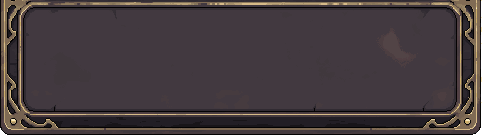
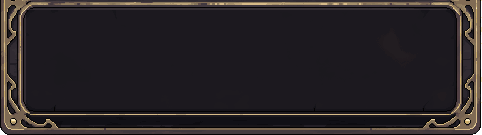
ui: Lesbarkeit der neuen Oberflaeche hinter ?ui=neu (#189, b361)
- Plattenmitte (ui_rahmen.png) ruhig und dunkel: Mauve #423940 mit rosa
  Schlieren auf Anthrazit #1c191f gezogen, Messing und Konturen bleiben.
- uiRahmen.lesbar(): zu dunkle Textfarben (Grau #666..#888, Braungrau)
  Richtung Pergament angehoben, bis sie auf Platte und Knopf >= 4,5:1
  erreichen; Schrift unter 11 px waechst, wenn Platz ist; kleiner Text
  ohne Kontur bekommt einen harten Pixelschatten. Wirkt in Einstellungen,
  Schwarzmarkt, Druckerei, Schmiede (ueber einkleiden) und im Journal.
- Zu enge Knoepfe (Schwarzmarkt "Blindkauf", Einstellungen "Klassisch")
  wachsen samt Trefferflaeche um ihre Beschriftung.
- Gemessener Kontrast (Median-Hintergrund unter dem Text), kleinster Wert
  vorher -> nachher: Einstellungen 2,48 -> 5,01; Journal 1,93 -> 7,56;
  Schmiede 1,93 -> 4,91; Druckerei 3,88 -> 6,86; Schwarzmarkt 3,13 -> 6,26.
- Test: tests/uiRahmen.test.js misst den Kontrast von Toast, Dialog (alle
  vier Knopfzustaende), Einstellungen, Schwarzmarkt und Journal sowie die
  Ruhe der Plattenmitte. Ohne Flagge bleibt alles wie bisher.

diff --git a/js/uiRahmen.js b/js/uiRahmen.js
@@ -45,6 +45,11 @@
     try { return !!(window.DebugGate && window.DebugGate.an('ui')); } catch (e) { return false; }
   }
 
+  // Cache-Buster je Bild: die Platte wurde nachtraeglich abgedunkelt (#189),
+  // sonst zeigt der Browser noch die alte, helle Mitte.
+  var BILD_V = { ui_rahmen: 2 };
+  function _pfad(k) { return 'assets/ui/' + k + '.png' + (BILD_V[k] ? '?v=' + BILD_V[k] : ''); }
+
   function _fehlend(scene) {
     if (!scene || !scene.textures) return ALLE.slice();
     return ALLE.filter(function (k) { return !scene.textures.exists(k); });
@@ -56,7 +61,7 @@
   /** Im preload() einer Szene: die Grafiken mitladen (nur mit Flagge). */
   function vorladen(scene) {
     if (!an() || !scene || !scene.load) return;
-    _fehlend(scene).forEach(function (k) { scene.load.image(k, 'assets/ui/' + k + '.png'); });
+    _fehlend(scene).forEach(function (k) { scene.load.image(k, _pfad(k)); });
   }
 
   /**
@@ -67,7 +72,7 @@
     var fehlt = _fehlend(scene);
     if (!fehlt.length) { if (fertig) fertig(); return; }
     if (!scene || !scene.load) return;
-    fehlt.forEach(function (k) { scene.load.image(k, 'assets/ui/' + k + '.png'); });
+    fehlt.forEach(function (k) { scene.load.image(k, _pfad(k)); });
     scene.load.once('complete', function () {
       if (fertig && scene.sys && scene.sys.isActive && scene.sys.isActive()) fertig();
     });
@@ -114,7 +119,12 @@
     return teile;
   }
 
-  /** Grosse Platte fuer Menues und Dialoge. */
+  /**
+   * Grosse Platte fuer Menues und Dialoge. Ihre Mitte ist im Bild selbst
+   * abgedunkelt (#189): das PixelLab-Mauve (#423940) mit rosa Schlieren
+   * ist auf ruhiges Anthrazit (#1c191f) gezogen, Abweichungen auf 35 %
+   * gestaucht; Messing und Konturen blieben unberuehrt.
+   */
   function platte(scene, cx, cy, w, h, depth, massstab) {
     return neunteilig(scene, RAHMEN, cx, cy, w, h, RAHMEN_RAND, depth, massstab || 0.6);
   }
@@ -127,6 +137,94 @@
   /** Symbolschluessel fuer eine Toast-Art. */
   function symbol(eventId) {
     return 'ui_symbol_' + (ART_SYMBOL[eventId] || 'ereignis');
+  }
+
+  // ---- Lesbarkeit (#189) ------------------------------------------------
+  // Die Szenen faerben Nebentext grau (#666 … #888), gedacht fuer das alte
+  // tiefe Dunkelblau. Auf Platte und Knoepfen fehlt ihm der Kontrast. Statt
+  // jede Farbe in jeder Szene umzuschreiben, hebt lesbar() zu dunkle Farben
+  // in Richtung Pergament an — gerade so weit, dass sie auf den dunklen
+  // Flaechen mind. 4,5:1 erreichen. Was schon hell genug ist (Messing,
+  // Pergament, Gruen, Blau), bleibt unveraendert; Grau bleibt erkennbar
+  // grauer als normaler Text, damit "aus" weiter "aus" aussieht.
+  var PERGAMENT = [0xef, 0xe6, 0xd2];
+  // Relative Leuchtdichte (WCAG). 0,40 ergibt 4,5:1 auf Flaechen bis 0,05
+  // — so hell ist die Mitte des Knopfbildes (#423940), die hellste Flaeche,
+  // auf der grauer Text steht (Einstellungen: "AUS").
+  var MIN_HELL = 0.40;
+  var MIN_PX = 11;   // kleinere Schrift waechst auf 11 px, wenn keine Zeile dazukommt
+
+  function _kanal(c) { c /= 255; return c <= 0.03928 ? c / 12.92 : Math.pow((c + 0.055) / 1.055, 2.4); }
+  function _hell(rgb) { return 0.2126 * _kanal(rgb[0]) + 0.7152 * _kanal(rgb[1]) + 0.0722 * _kanal(rgb[2]); }
+  function _rgb(farbe) {
+    var m = /^#([0-9a-f]{3}|[0-9a-f]{6})$/i.exec(String(farbe || '').trim());
+    if (!m) return null;
+    var h = m[1].length === 3 ? m[1].replace(/./g, '$&$&') : m[1];
+    var n = parseInt(h, 16);
+    return [(n >> 16) & 255, (n >> 8) & 255, n & 255];
+  }
+  function _hex(rgb) {
+    return '#' + rgb.map(function (c) { return ('0' + Math.round(c).toString(16)).slice(-2); }).join('');
+  }
+
+  /** Farbe so weit Richtung Pergament mischen, bis sie MIN_HELL erreicht. */
+  function heben(farbe) {
+    var rgb = _rgb(farbe);
+    if (!rgb || _hell(rgb) >= MIN_HELL) return farbe;
+    var mix = rgb;
+    for (var t = 0.05; t <= 1.0001; t += 0.05) {
+      mix = rgb.map(function (c, i) { return c + (PERGAMENT[i] - c) * t; });
+      if (_hell(mix) >= MIN_HELL) break;
+    }
+    return _hex(mix);
+  }
+
+  /**
+   * Einen Text auf dunklem Grund lesbar machen: Farbe anheben, kleine
+   * Schrift vergroessern (nur wenn dadurch keine Zeile dazukommt) und
+   * kleinem Text ohne Kontur einen harten Pixelschatten geben. Faerbt die
+   * Szene den Text spaeter um (z. B. "AN"/"AUS"), hebt der naechste Aufruf
+   * die neue Farbe wieder an.
+   */
+  function lesbar(text) {
+    if (!text || text.type !== 'Text' || !text.style || !text.scene) return;
+    var merk = text._uiLesbar;
+    if (merk && merk.farbe === text.style.color) return;
+    var neu = heben(text.style.color);
+    if (neu !== text.style.color) text.setColor(neu);
+    if (!merk) {
+      var px = parseFloat(text.style.fontSize);
+      if (px && px < MIN_PX) {
+        var vorher = text.height, alt = text.style.fontSize;
+        text.setFontSize(MIN_PX + 'px');
+        // Kein Platz: eine Zeile mehr oder ueber den Bildrand hinaus.
+        var b = text.getBounds(), cam = text.scene.cameras && text.scene.cameras.main;
+        var breit = cam ? cam.width : 960;
+        if (text.height > vorher * 1.25 || b.x < 0 || b.x + b.width > breit) text.setFontSize(alt);
+      }
+      if ((parseFloat(text.style.fontSize) || 0) < 15 && !text.style.strokeThickness) {
+        text.setShadow(1, 1, '#000000', 0, false, true);
+      }
+    }
+    text._uiLesbar = { farbe: text.style.color };
+  }
+
+  /** lesbar() fuer eine Liste (auch Container), z. B. das Journal. */
+  function lesbarAlle(liste) {
+    (liste || []).forEach(function (o) {
+      if (o && o.type === 'Container') lesbarAlle(o.list);
+      else lesbar(o);
+    });
+  }
+
+  /** Der Beschriftungstext eines Knopfes: mittig auf dem Rechteck. */
+  function _knopfText(rect, cx, cy, h) {
+    var liste = rect.parentContainer ? rect.parentContainer.list : rect.scene.children.list;
+    for (var i = 0; i < liste.length; i++) {
+      var t = liste[i];
+      if (t.type === 'Text' && t.originX === 0.5 && Math.abs(t.x - cx) < 2 && Math.abs(t.y - cy) < h / 2) return t;
+    }
+    return null;
   }
 
   /**
@@ -155,6 +253,16 @@
     if (!scene || !bereit(scene)) return null;
     var w = rect.width * Math.abs(rect.scaleX || 1), h = rect.height * Math.abs(rect.scaleY || 1);
     var cx = rect.x + (0.5 - rect.originX) * w, cy = rect.y + (0.5 - rect.originY) * h;
+    // Zu enge Knoepfe (Schwarzmarkt: 60 px fuer "Blindkauf") wachsen um
+    // die Mitte, bis die Beschriftung samt Rand hineinpasst — Trefferflaeche
+    // inklusive. Nur bei mittig sitzenden Rechtecken, sonst wandert der Knopf.
+    var beschriftung = _knopfText(rect, cx, cy, h);
+    var noetig = beschriftung ? Math.ceil(beschriftung.width) + (h < 30 ? 18 : 28) : 0;
+    if (noetig > w && rect.originX === 0.5 && Math.abs(rect.scaleX || 1) === 1) {
+      rect.setSize(noetig, rect.height);
+      if (rect.input && rect.input.hitArea && rect.input.hitArea.setSize) rect.input.hitArea.setSize(noetig, rect.height);
+      w = noetig;
+    }
     function ruheAus(farbe) {
       if (opts.deaktiviert || rect._enabled === false) return 'aus';
       return farbe === 0xffd166 ? 'hover' : 'normal';
@@ -226,13 +334,18 @@
     opts = opts || {};
     var maxW = opts.maxBreite || 320, maxH = opts.maxHoehe || 48;
     function pruefe(o) {
-      if (o.type === 'Container') { o.list.forEach(pruefe); return; }
+      if (o.type === 'Container') { o.list.slice().forEach(pruefe); return; }
       if (o.type !== 'Rectangle' || o._uiKnopf || o._uiOhne || !o.isStroked) return;
       if (!o._uiAus && (!o.input || !o.input.enabled)) return;
       if (o.width > maxW || o.height > maxH) return;
       knopf(o, { deaktiviert: !!o._uiAus });
     }
-    function lauf() { scene.children.list.slice().forEach(pruefe); }
+    // Erst die Texte (Groesse steht dann fest), dann die Knoepfe, die sich
+    // nach ihrer Beschriftung verbreitern.
+    function lauf() {
+      lesbarAlle(scene.children.list);
+      scene.children.list.slice().forEach(pruefe);
+    }
     scene._uiEinkleiden = lauf;
     scene.sys.events.on('postupdate', lauf);
     scene.sys.events.once('shutdown', function () {
@@ -252,6 +365,7 @@
     an: an, bereit: bereit, vorladen: vorladen, nachladen: nachladen,
     neunteilig: neunteilig, platte: platte, banner: banner, knopf: knopf, symbol: symbol,
     einkleiden: einkleiden, menuePlatte: menuePlatte,
+    heben: heben, lesbar: lesbar, lesbarAlle: lesbarAlle,
     ALLE: ALLE
   };
   if (typeof window !== 'undefined') window.uiRahmen = uiRahmen;

diff --git a/tests/uiRahmen.test.js b/tests/uiRahmen.test.js
@@ -218,6 +218,151 @@ function menue(H, oeffner, key) {
   })()`);
 }
 
+// ---- Lesbarkeit (#189) ----------------------------------------------------
+// Gemessen wird, was der Spieler sieht: alle Texte kurz ausblenden, ein Bild
+// rendern und unter jedem Text den Median der Hintergrund-Leuchtdichte mit
+// seiner Farbe vergleichen (WCAG-Kontrast). Ziel 4,5:1.
+
+function leucht(r, g, b) {
+  const f = (c) => { c /= 255; return c <= 0.03928 ? c / 12.92 : Math.pow((c + 0.055) / 1.055, 2.4); };
+  return 0.2126 * f(r) + 0.7152 * f(g) + 0.0722 * f(b);
+}
+function hexLeucht(hex) {
+  let h = String(hex).replace('#', '');
+  if (h.length === 3) h = h.replace(/./g, '$&$&');
+  const n = parseInt(h, 16);
+  return leucht((n >> 16) & 255, (n >> 8) & 255, n & 255);
+}
+const kontrast = (a, b) => (Math.max(a, b) + 0.05) / (Math.min(a, b) + 0.05);
+
+/** Hintergrund ohne Texte rendern; liefert die Leuchtdichten eines Rechtecks. */
+function hintergrund(H) {
+  H.run(`(function () { window.__versteckt = [];
+    window.game.scene.scenes.forEach(function (s) { (function lauf(l) { l.forEach(function (o) {
+      if (o.type === 'Container') return lauf(o.list);
+      if (o.type === 'Text' && o.visible) { o.visible = false; window.__versteckt.push(o); } }); })(s.children ? s.children.list : []); });
+  })()`);
+  H.step(1);
+  const c = H.window.game.canvas;
+  const bild = c.getContext('2d').getImageData(0, 0, c.width, c.height);
+  H.run('window.__versteckt.forEach(function (o) { o.visible = true; })');
+  const sx = c.width / 960, sy = c.height / 480;
+  return function bereich(x, y, w, h) {
+    const L = [];
+    const x0 = Math.max(0, Math.floor(x * sx)), y0 = Math.max(0, Math.floor(y * sy));
+    const x1 = Math.min(c.width, Math.ceil((x + w) * sx)), y1 = Math.min(c.height, Math.ceil((y + h) * sy));
+    for (let yy = y0; yy < y1; yy++) for (let xx = x0; xx < x1; xx++) {
+      const i = (yy * c.width + xx) * 4;
+      L.push(leucht(bild.data[i], bild.data[i + 1], bild.data[i + 2]));
+    }
+    return L.sort((a, b) => a - b);
+  };
+}
+
+/** Kontrast je Text; auswahlJs liefert ein Array von Text-Objekten. */
+function kontraste(H, auswahlJs) {
+  const texte = H.run(`(function () {
+    return ${auswahlJs}.filter(function (o) { return o.visible && o.alpha > 0.5 && String(o.text || '').trim(); }).map(function (o) {
+      var b = o.getBounds();
+      return { text: String(o.text).slice(0, 30), farbe: o.style.color, x: b.x, y: b.y, w: b.width, h: b.height };
+    });
+  })()`);
+  const bereich = hintergrund(H);
+  return texte.map((t) => {
+    const L = bereich(t.x, t.y, t.w, t.h);
+    return Object.assign(t, { k: kontrast(hexLeucht(t.farbe), L[Math.floor(L.length / 2)]) });
+  });
+}
+
+function alleLesbar(liste, was) {
+  assert.ok(liste.length > 0, was + ': keine Texte gemessen');
+  const schlecht = liste.filter((t) => t.k < 4.5);
+  assert.strictEqual(schlecht.map((t) => `"${t.text}" ${t.farbe} ${t.k.toFixed(2)}:1`).join(', '), '', was + ': unter 4,5:1');
+}
+
+const SZENE_TEXTE = (key) => `(function () { var r = []; (function lauf(l) { l.forEach(function (o) {
+  if (o.type === 'Container') return lauf(o.list); if (o.type === 'Text') r.push(o); }); })(window.game.scene.getScene('${key}').children.list); return r; })()`;
+const HUB_TEXTE = (minDepth) => `(function () { var r = []; (function lauf(l, tief) { l.forEach(function (o) {
+  if (o.type === 'Container') { if (o.visible && o.alpha > 0.5 && (tief || o.depth >= ${minDepth})) lauf(o.list, true); return; }
+  if (o.type === 'Text' && (tief || o.depth >= ${minDepth})) r.push(o); }); })(window.game.scene.getScene('HubSceneV2').children.list, false); return r; })()`;
+
+describe('Lesbarkeit mit ?ui=neu (gemessener Kontrast)', () => {
+  let H = null;
+  before(async () => {
+    H = await launch({ search: '?autostart=1&debug=1&ui=neu', renderer: 'canvas' });
+    await H.waitForScene('HubSceneV2', { maxRounds: 600 });
+    // Der Einfuehrungstext des Hubs laege sonst ueber allem.
+    H.run(`(window.SlotStorage || localStorage).setItem('demonfall_seen_intro_splash', '1')`);
+    H.step(30);
+  });
+  after(async () => { if (H) await H.shutdown(); });
+
+  test('Toast-Text auf dem Banner', () => {
+    toast(H, 'hinterhalt');
+    const k = kontraste(H, `[window.game.scene.getScene('HubSceneV2')._activeEventToast.label]`);
+    alleLesbar(k, 'Toast');
+    H.step(400);
+  });
+
+  test('Wahl-Dialog: Titel und Knopftexte in allen vier Knopfzustaenden', () => {
+    dialog(H);
+    // Klick auf die Abdunklung: der Titel steht sofort ganz da.
+    H.run(`window.game.scene.getScene('HubSceneV2').children.list.filter(function (o) { return o.type === 'Rectangle' && o.depth === 2500; }).forEach(function (r) { r.emit('pointerdown'); })`);
+    H.step(2);
+    for (const z of ['normal', 'hover', 'gedrueckt', 'aus']) {
+      H.run(`window.game.scene.getScene('HubSceneV2').children.list.filter(function (o) { return o._uiKnopf; }).forEach(function (r) { r._uiKnopf.setze('${z}'); })`);
+      alleLesbar(kontraste(H, HUB_TEXTE(2500)), 'Dialog (' + z + ')');
+    }
+    schliessen(H);
+  });
+
+  test('Einstellungen: jeder Text, auch "AUS" und der gesperrte Knopf', () => {
+    H.run(`window.openSettingsScene(window.game.scene.getScene('HubSceneV2'))`);
+    H.step(5);
+    H.run(`window.game.scene.getScene('SettingsScene')._tutorialSkipBtn.setEnabled(false)`);
+    H.step(2);
+    const k = kontraste(H, SZENE_TEXTE('SettingsScene'));
+    assert.ok(k.some((t) => t.text === 'AUS'), 'kein "AUS" gemessen');
+    alleLesbar(k, 'Einstellungen');
+    H.run(`window.game.scene.getScene('SettingsScene')._tutorialSkipBtn.setEnabled(true)`);
+    H.run(`window.game.scene.getScene('SettingsScene')._close()`);
+    H.step(5);
+  });
+
+  test('Schwarzmarkt: lesbar, und der enge Blindkauf-Knopf umschliesst seine Beschriftung', () => {
+    H.run('window._dungeonMerchant = true');
+    H.run(`window.openShopScene(window.game.scene.getScene('HubSceneV2'))`);
+    H.step(5);
+    alleLesbar(kontraste(H, SZENE_TEXTE('ShopScene')), 'Schwarzmarkt');
+    const eng = H.run(`(function () {
+      var sc = window.game.scene.getScene('ShopScene');
+      return sc.children.list.filter(function (o) { return o._uiKnopf; }).map(function (r) {
+        var t = sc.children.list.filter(function (x) { return x.type === 'Text' && Math.abs(x.x - r.x) < 2 && Math.abs(x.y - r.y) < r.height / 2; })[0];
+        return t ? { text: t.text, luft: r.width - t.width, treffer: r.input.hitArea.width - t.width } : null;
+      }).filter(function (e) { return e && e.luft < 12; });
+    })()`);
+    assert.strictEqual(JSON.stringify(eng), '[]', 'Knopf zu eng fuer seinen Text');
+    H.run(`window.game.scene.getScene('ShopScene')._close()`);
+    H.run('window._dungeonMerchant = false');
+    H.step(5);
+  });
+
+  test('Journal: Kleinschrift lesbar, Plattenmitte dunkel und ruhig', () => {
+    H.run(`window.storySystem.showJournalOverlay(window.game.scene.getScene('HubSceneV2'), function () {})`);
+    H.step(3);
+    alleLesbar(kontraste(H, HUB_TEXTE(6000)), 'Journal');
+    // Leere Flaeche unter den Aufgaben: frueher Mauve mit rosa Schlieren.
+    const L = hintergrund(H)(300, 330, 360, 60);
+    const median = L[Math.floor(L.length / 2)];
+    const spanne = L[Math.floor(L.length * 0.95)] - L[Math.floor(L.length * 0.05)];
+    assert.ok(median < 0.02, 'Plattenmitte zu hell: ' + median.toFixed(4));
+    assert.ok(spanne < 0.01, 'Plattenmitte fleckig: ' + spanne.toFixed(4));
+    H.run(`window.game.scene.getScene('HubSceneV2').children.list.filter(function (o) { return o.depth >= 6000 && o.depth < 6100; }).forEach(function (o) { o.destroy(); })`);
+    H.run('window.resumeGameClock && window.resumeGameClock()');
+    H.step(2);
+  });
+});
+
 describe('ohne Flagge: alles wie vorher', () => {
   let H = null;
   before(async () => { H = await hub('?autostart=1&debug=1'); });
@@ -255,6 +400,9 @@ describe('ohne Flagge: alles wie vorher', () => {
       assert.strictEqual(r.platte, 0, k);
       assert.ok(r.graphics >= 1, k + ': altes Panel fehlt');
       assert.strictEqual(r.knoepfe, 0, k);
+      // Textfarben bleiben unangetastet (graues "AUS" bleibt #888888).
+      const gehoben = H.run(`window.game.scene.getScene('${k}').children.list.filter(function (o) { return o._uiLesbar; }).length`);
+      assert.strictEqual(gehoben, 0, k + ': Texte ohne Flagge umgefaerbt');
       H.run(`window.game.scene.getScene('${k}')._close()`);
       H.step(5);
     }

diff --git a/index.html b/index.html
@@ -115,7 +115,7 @@
     <script>window.i18n.setLanguage(window.Persistence.getLanguage());</script>
     <script src="js/inputScheme.js?v=002"></script>
     <script src="js/gameState.js"></script>
-    <script src="js/version.js?v=339"></script>
+    <script src="js/version.js?v=340"></script>
     <script src="js/soundManager.js?v=002"></script>
     <script src="js/performanceMonitor.js?v=002"></script>
     <!-- Render Quality helper (feature 052). Provides window.RenderQuality
@@ -141,7 +141,7 @@
     <script src="js/hiddenFinds.js?v=017"></script>
     <!-- #71: Kettenschloss-Minispiel — vor eventSystem (dort registriert) -->
     <script src="js/kettenschloss.js?v=005"></script>
-    <script src="js/uiRahmen.js?v=001"></script>
+    <script src="js/uiRahmen.js?v=002"></script>
     <script src="js/eventSystem.js?v=046"></script>
     <!-- 061: Raum-Ziel-Modi. roomModes.js (Framework + ClearMode) MUSS vor
          roomManager/wave/main laden. Die Modus-Dateien (survival/defend/hunt/
@@ -176,7 +176,7 @@
     <script src="js/kriegsschar.js?v=005"></script>
     <script src="js/loot.js?v=031"></script>
     <script src="js/questSystem.js?v=038"></script>
-    <script src="js/storySystem.js?v=011"></script>
+    <script src="js/storySystem.js?v=012"></script>
     <!-- Feature 063: Story-Inszenierung (Logik/Daten/Komponente vor HubSceneV2) -->
     <script src="js/questFinale.js?v=005"></script>
     <!-- #158: Finale an der Quelle und die Entscheidung am Konvoi. -->

diff --git a/js/storySystem.js b/js/storySystem.js
@@ -955,6 +955,8 @@
       color: '#888888'
     }).setOrigin(0.5, 1);
     container.add(hint);
+    // #189: graue Kleinschrift auf der Platte anheben (nur mit ?ui=neu).
+    if (platte) window.uiRahmen.lesbarAlle(container.list);
 
     // Sichtbarer Ausschnitt zwischen Titel-Unterkante und Hinweis-Oberkante.
     var viewTopScreen = h / 2 + contentTopRel;

diff --git a/js/version.js b/js/version.js
@@ -2,4 +2,4 @@
 // angezeigt, damit man pruefen kann, ob ein Release bereits live ist.
 // Bei JEDEM Deploy die Build-Nummer erhoehen (und das ?v= dieser Datei in
 // index.html bumpen).
-window.GAME_VERSION = '2026-10-10 · b360';
+window.GAME_VERSION = '2026-10-10 · b361';
